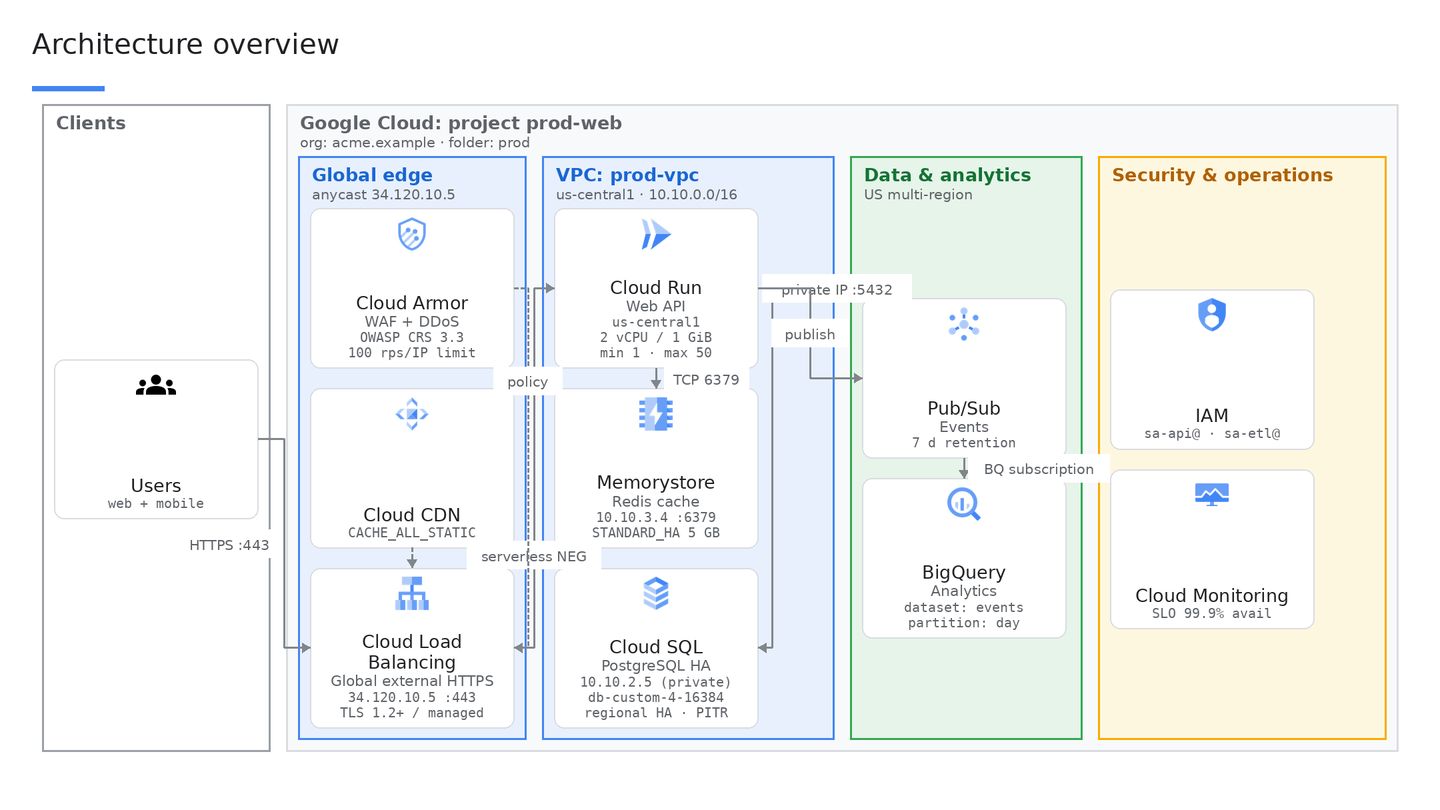
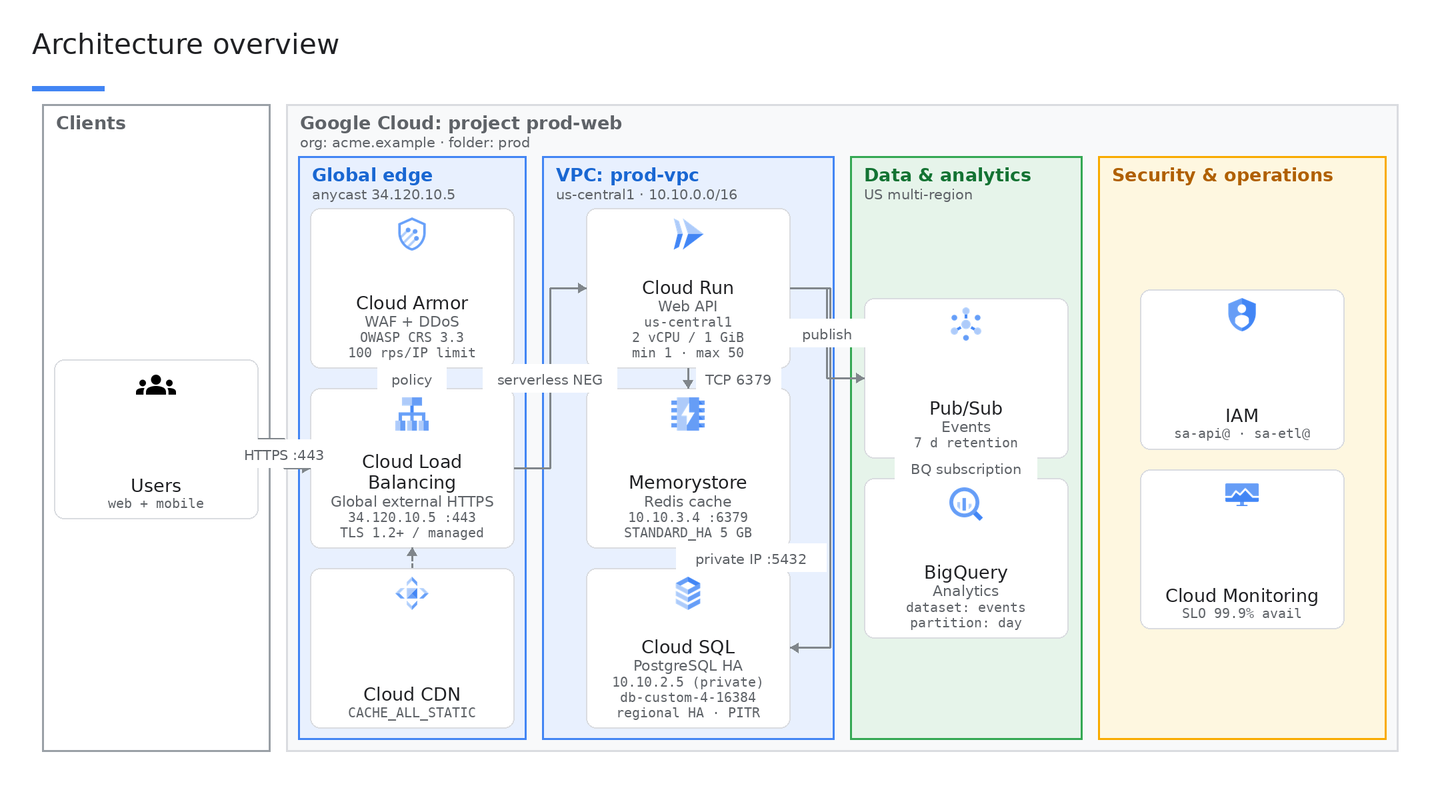
Diagram polish: attachments (dashed-only nodes) placed next to their target for straight arrows, ranks ignore dashed edges, content centred in wide zones, label placement scored against cards/unrelated zones/other labels with on-line preference, Slides loop offset calibrated from live render

diff --git a/gcp_architect/diagram/layout.py b/gcp_architect/diagram/layout.py
@@ -47,8 +47,8 @@ class Params:
     zone_pad: float = 10.0
     zone_header: float = 20.0
     zone_detail_h: float = 10.0
-    icon: float = 26.0
-    icon_top: float = 4.0
+    icon: float = 28.0
+    icon_top: float = 5.0
     card_pad_bottom: float = 5.0
     max_rows: int = 3
     min_card_w: float = 100.0
@@ -179,11 +179,12 @@ def card_size(nodes: list[Node], p: Params) -> tuple[float, float]:
 
 # --------------------------------------------------------------------------- graph ranks
 def compute_ranks(spec: ArchitectureSpec) -> dict[str, int]:
-    """Longest-path layering over the edge graph; cycles are broken on back edges."""
+    """Longest-path layering over the *solid* edge graph; dashed/dotted edges are attachments
+    (policies, config) and must not push their source ahead of its target. Cycles are broken on back edges."""
     order = [n.id for n in spec.nodes]
     pred: dict[str, list[str]] = defaultdict(list)
     for e in spec.edges:
-        if e.source != e.target:
+        if e.source != e.target and e.style == "solid":
             pred[e.target].append(e.source)
 
     memo: dict[str, int] = {}
@@ -203,6 +204,37 @@ def compute_ranks(spec: ArchitectureSpec) -> dict[str, int]:
         return d
 
     return {n: depth(n) for n in order}
+
+
+def order_zone_nodes(nodes: list[Node], spec: ArchitectureSpec, ranks: dict[str, int], order_index: dict[str, int]) -> list[Node]:
+    """Flow order inside a zone: by solid rank, with *attachments* (nodes whose only edges are
+    dashed/dotted links to another node in the same zone) placed directly next to their target,
+    alternating before/after it, so they connect with short straight arrows instead of loops."""
+    ids = {n.id for n in nodes}
+    solid_touch: set[str] = set()
+    dashed_target: dict[str, str] = {}
+    for e in spec.edges:
+        if e.style == "solid":
+            solid_touch.add(e.source)
+            solid_touch.add(e.target)
+        else:
+            other = e.target if e.source in ids else e.source
+            me = e.source if e.source in ids else e.target
+            if me in ids and other in ids and me != other:
+                dashed_target.setdefault(me, other)
+    attachments = [n for n in nodes if n.id not in solid_touch and n.id in dashed_target and dashed_target[n.id] in ids]
+    attach_ids = {n.id for n in attachments}
+    base = sorted((n for n in nodes if n.id not in attach_ids), key=lambda n: (ranks.get(n.id, 0), order_index[n.id]))
+    for i, att in enumerate(sorted(attachments, key=lambda n: order_index[n.id])):
+        target = dashed_target[att.id]
+        if target in attach_ids:  # attachment of an attachment: fall back to flow order
+            base.append(att)
+            continue
+        pos = next(k for k, n in enumerate(base) if n.id == target)
+        before = sum(1 for n in base[:pos] if n.id in attach_ids and dashed_target.get(n.id) == target)
+        after = sum(1 for n in base[pos + 1:] if n.id in attach_ids and dashed_target.get(n.id) == target)
+        base.insert(pos if before <= after else pos + 1 + after, att)
+    return base
 
 
 # --------------------------------------------------------------------------- measuring / placing
@@ -259,6 +291,12 @@ def _place(block: _Block, x: float, y: float, h: float, p: Params, node_w: float
         child_depth = depth
 
     cursor = cx
+    if block.zone is not None:
+        # Centre the content horizontally when the zone is wider than its content (long zone labels).
+        content_w = (block.node_block_w if block.nodes else 0.0) + sum(c.w for c in block.children)
+        parts = (1 if block.nodes else 0) + len(block.children)
+        content_w += max(0, parts - 1) * p.zone_gap
+        cursor += max(0.0, (block.w - 2 * p.zone_pad - content_w) / 2)
     if block.nodes:
         top = cy + (inner_h - block.node_block_h) / 2
         i = 0
@@ -282,7 +320,7 @@ def _attempt(spec: ArchitectureSpec, p: Params, ranks: dict[str, int]) -> tuple[
     order_index = {n.id: i for i, n in enumerate(spec.nodes)}
 
     def sort_nodes(ns: list[Node]) -> list[Node]:
-        return sorted(ns, key=lambda n: (ranks.get(n.id, 0), order_index[n.id]))
+        return order_zone_nodes(ns, spec, ranks, order_index)
 
     node_w, node_h = card_size(spec.nodes, p)
     nodes_by_zone: dict[str | None, list[Node]] = defaultdict(list)

diff --git a/gcp_architect/diagram/routing.py b/gcp_architect/diagram/routing.py
@@ -33,7 +33,8 @@ def route(a: Rect, b: Rect, scale: float = 1.0, gap_x: float = GAP_X, gap_y: flo
     skips_a_card = abs(dy) > 1.5 * (a.h + gap_y * scale)
     if same_column and skips_a_card:
         # Loop around the right-hand side so the line does not cross cards in between.
-        off = gap / 2
+        # Slides routes a right->right bent connector ~20pt outside the farther shape.
+        off = 20 * scale
         x = max(a.x + a.w, b.x + b.w) + off
         pts = [(a.x + a.w, a.cy), (x, a.cy), (x, b.cy), (b.x + b.w, b.cy)]
         return Route(SITE_RIGHT, SITE_RIGHT, pts, (x, (a.cy + b.cy) / 2), "center")
@@ -67,27 +68,39 @@ def route(a: Rect, b: Rect, scale: float = 1.0, gap_x: float = GAP_X, gap_y: flo
     return Route(s, e, pts, (p0[0] + 4 * scale, my), "right")
 
 
-def label_rect(r: Route, w: float, h: float, placed: list[Rect] | None = None, obstacles: list[Rect] | None = None) -> Rect:
+def label_rect(r: Route, w: float, h: float, placed: list[Rect] | None = None, obstacles: list[Rect] | None = None,
+               soft_obstacles: list[Rect] | None = None) -> Rect:
     """Label box on the route.
 
     Samples positions along the whole polyline and picks the one with the least overlap with
-    `obstacles` (cards) and previously `placed` labels, preferring the route's natural label point.
+    `obstacles` (cards), `soft_obstacles` (zones unrelated to the edge, weighted lower) and
+    previously `placed` labels, preferring the route's natural label point and on-line placement.
     """
     x, y = r.label_center
     natural = Rect(x, y - h / 2, w, h) if r.label_side == "right" else Rect(x - w / 2, y - h / 2, w, h)
-    obstacles = obstacles or []
+    # A label may sit over a card's outer margin (text is inset ~7pt) without hiding anything.
+    inset = 6.0
+    obstacles = [Rect(o.x + inset, o.y + inset, max(1, o.w - 2 * inset), max(1, o.h - 2 * inset)) for o in (obstacles or [])]
     placed_rects = placed if placed is not None else []
+    soft = soft_obstacles or []
 
-    def cost(rect: Rect) -> float:
+    def cost(rect: Rect, side_penalty: float = 0.0) -> float:
         c = sum(_overlap_area(rect, o) for o in obstacles) + 3 * sum(_overlap_area(rect, p) for p in placed_rects)
-        c += 0.02 * (abs(rect.cx - natural.cx) + abs(rect.cy - natural.cy))  # stay near the natural spot
-        return c
+        c += 0.35 * sum(_overlap_area(rect, z) for z in soft)
+        c += 0.06 * (abs(rect.cx - natural.cx) + abs(rect.cy - natural.cy))  # stay near the natural spot
+        return c + side_penalty
 
     best, best_cost = natural, cost(natural)
     if best_cost > 0:
-        for px, py in _sample_polyline(r.points, step=5.0):
-            for cand in (Rect(px - w / 2, py - h / 2, w, h), Rect(px + 2, py - h / 2, w, h), Rect(px - w - 2, py - h / 2, w, h)):
-                c = cost(cand)
+        for px, py in _sample_polyline(r.points, step=4.0):
+            for cand, pen in (
+                (Rect(px - w / 2, py - h / 2, w, h), 0.0),   # centred on the line
+                (Rect(px - w / 2, py - h - 1, w, h), 3.0),   # above a horizontal segment
+                (Rect(px - w / 2, py + 1, w, h), 3.0),       # below a horizontal segment
+                (Rect(px + 2, py - h / 2, w, h), 5.0),       # right of a vertical segment
+                (Rect(px - w - 2, py - h / 2, w, h), 5.0),   # left of a vertical segment
+            ):
+                c = cost(cand, pen)
                 if c < best_cost - 1e-6:
                     best, best_cost = cand, c
     if placed is not None:

diff --git a/gcp_architect/diagram/slides_builder.py b/gcp_architect/diagram/slides_builder.py
@@ -333,6 +333,13 @@ class DeckBuilder:
         # 3. connectors (bound to cards so they follow when moved)
         placed_labels: list[Rect] = []
         card_rects = [nb.rect for nb in lay.nodes.values()]
+        leaf_zone_rects = [zb.rect for zb in lay.zones if not any(o.zone.parent == zb.zone.id for o in lay.zones)]
+
+        def unrelated_zones(a: Rect, b: Rect) -> list[Rect]:
+            def contains(z: Rect, r: Rect) -> bool:
+                return z.x <= r.cx <= z.x + z.w and z.y <= r.cy <= z.y + z.h
+            return [z for z in leaf_zone_rects if not contains(z, a) and not contains(z, b)]
+
         for e in self.spec.edges:
             if e.source == e.target or e.source not in lay.nodes or e.target not in lay.nodes:
                 continue
@@ -343,8 +350,8 @@ class DeckBuilder:
                 lsize = lay.fonts["edge"]
                 # Text boxes have ~7.2pt insets on each side; size the box so short labels never wrap.
                 w = len(e.label) * lsize * 0.56 + 18
-                lr = label_rect(route(a, b, s, p.gap_x, p.gap_y), w, 14, placed_labels, card_rects)
-                self.textbox(page, lr, e.label, size=lsize, color=INK_MUTED, align="CENTER",
+                lr = label_rect(route(a, b, s, p.gap_x, p.gap_y), w, 14, placed_labels, card_rects, unrelated_zones(a, b))
+                self.textbox(page, lr, e.label, size=lsize, color=INK_SOFT, align="CENTER",
                              fill="#FFFFFF", content_alignment="MIDDLE", name="elabel")
         return page
 

diff --git a/scripts/preview_diagram.py b/scripts/preview_diagram.py
@@ -101,6 +101,10 @@ def main():
 
     placed = []
     card_rects = list(card.values())
+    leaf_zone_rects = [zb.rect for zb in lay.zones if not any(o.zone.parent == zb.zone.id for o in lay.zones)]
+    def unrelated(a, b):
+        inside = lambda z, r: z.x <= r.cx <= z.x + z.w and z.y <= r.cy <= z.y + z.h
+        return [z for z in leaf_zone_rects if not inside(z, a) and not inside(z, b)]
     for e in spec.edges:
         if e.source not in card or e.target not in card:
             continue
@@ -128,7 +132,7 @@ def main():
             lsize = F["edge"]
             fl = font(lsize)
             w = max(24.0, len(e.label) * lsize * 0.58 + 10)
-            lr = label_rect(rt, w, 14, placed, card_rects)
+            lr = label_rect(rt, w, 14, placed, card_rects, unrelated(a, b))
             d.rectangle([lr.x * S, lr.y * S, (lr.x + lr.w) * S, (lr.y + lr.h) * S], fill="white")
             tw = d.textlength(e.label, font=fl)
             d.text((lr.cx * S - tw / 2, lr.cy * S - fl.size / 2), e.label, fill=INK_MUTED, font=fl)
